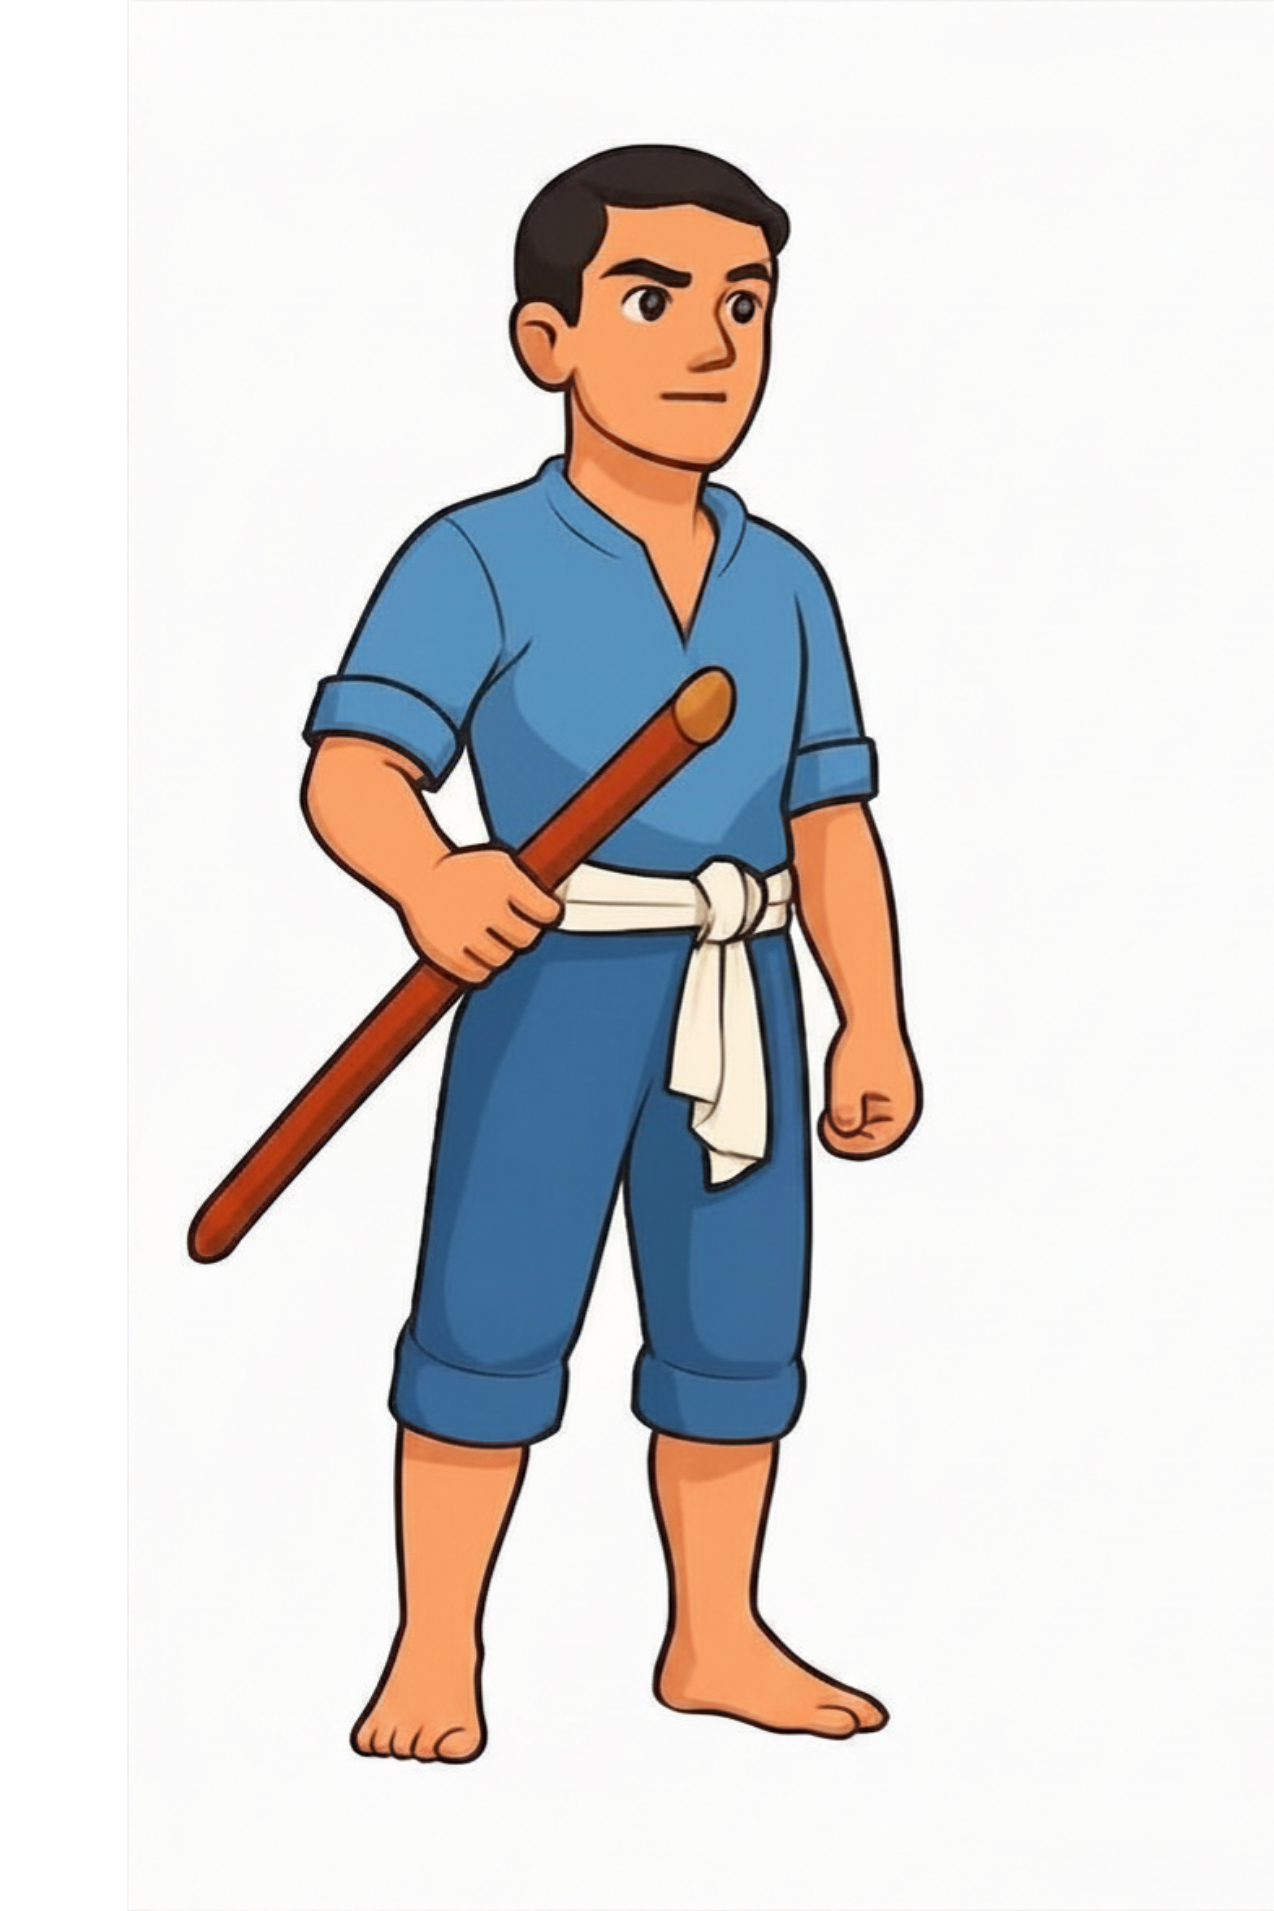
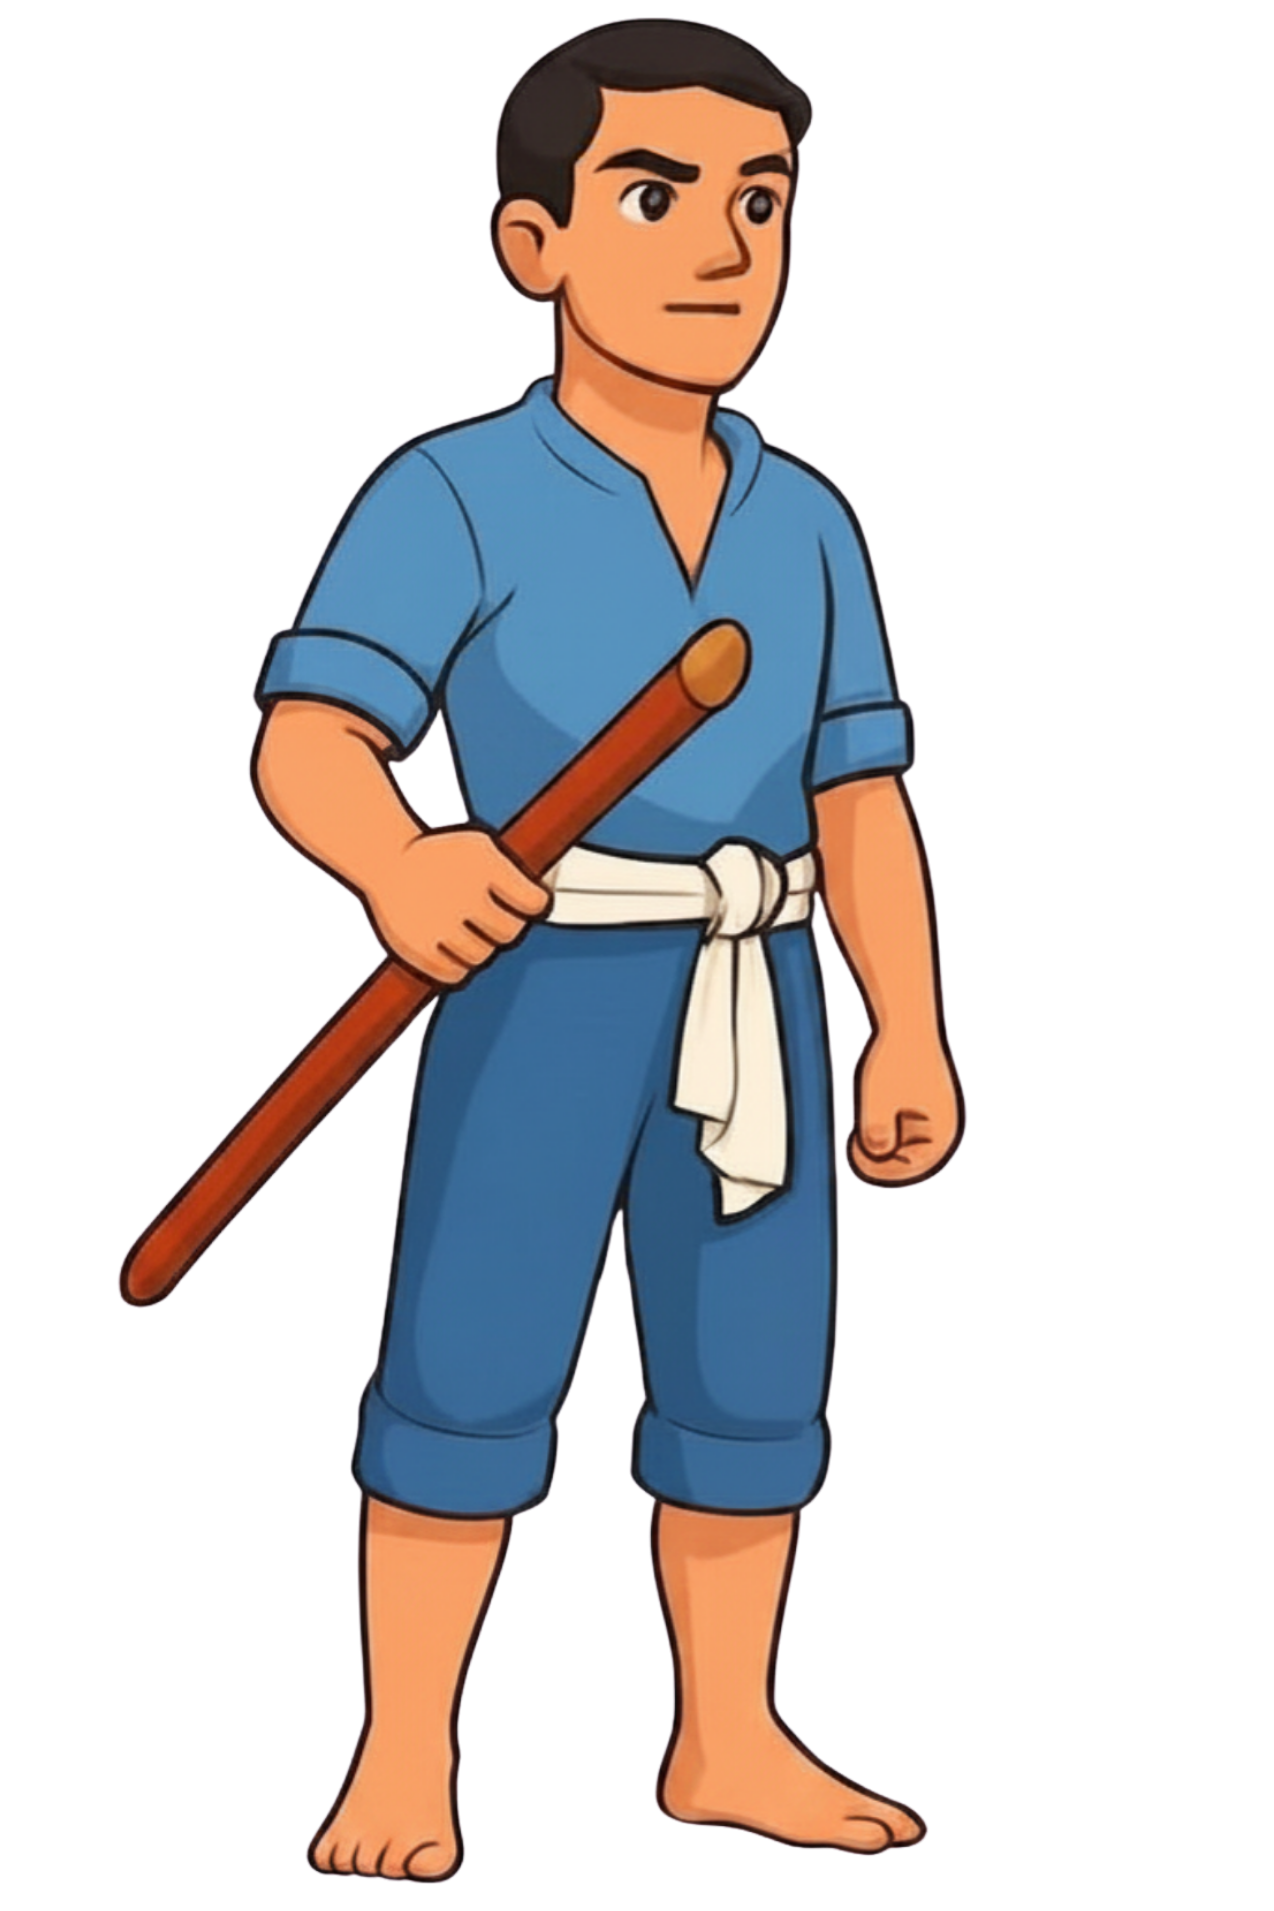
feat: swap GatTayaw image to speaking pose while audio plays

Changed region(s): [[0.0918, 0.0, 0.7653, 0.988]]

diff --git a/liliw-frontend/src/components/GatTayaw.tsx b/liliw-frontend/src/components/GatTayaw.tsx
@@ -132,11 +132,11 @@ export default function GatTayaw({ defaultKey }: Props) {
             style={{ width: 110, height: 155, filter: 'drop-shadow(0 8px 18px rgba(11,61,145,0.25))' }}>
             {/* eslint-disable-next-line @next/next/no-img-element */}
             <img
-              src="/images/gat-tayaw.png"
+              src={playing ? '/images/gat-tayaw-speaking.png' : '/images/gat-tayaw.png'}
               alt="Gat Tayaw"
               width={110}
               height={155}
-              style={{ width: 110, height: 155, objectFit: 'contain' }}
+              style={{ width: 110, height: 155, objectFit: 'contain', transition: 'opacity 0.15s ease' }}
             />
           </div>
 